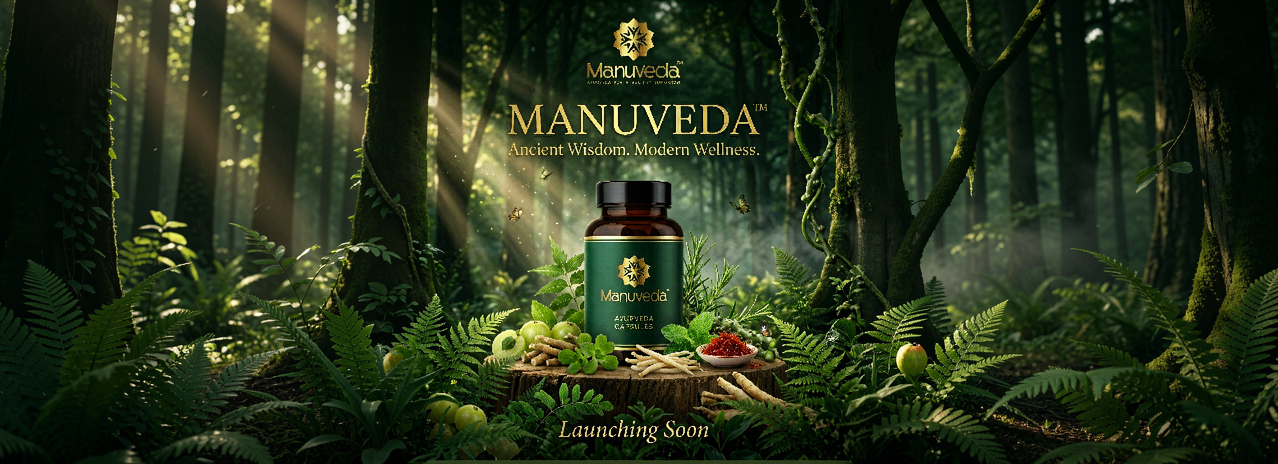
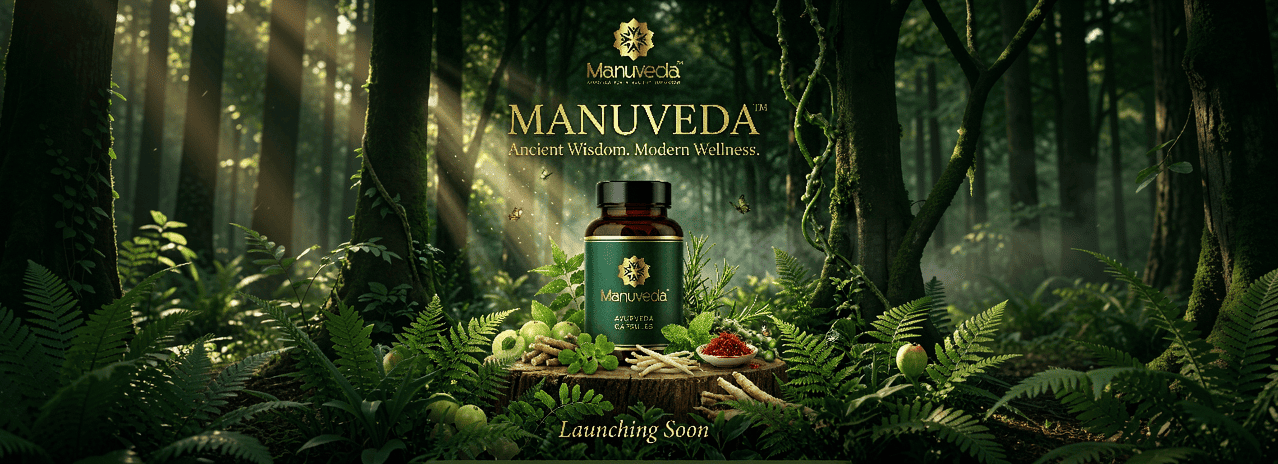
feat: implement responsive landing page with desktop and mobile image assets

diff --git a/src/app/page.tsx b/src/app/page.tsx
@@ -6,7 +6,7 @@ export default function Home() {
         <img
           src="/mobile.jpeg"
           alt="Manuveda - Launching Soon"
-          className="w-full h-full object-cover object-center"
+          className="w-full h-full object-contain object-center"
           loading="eager"
         />
       </picture>